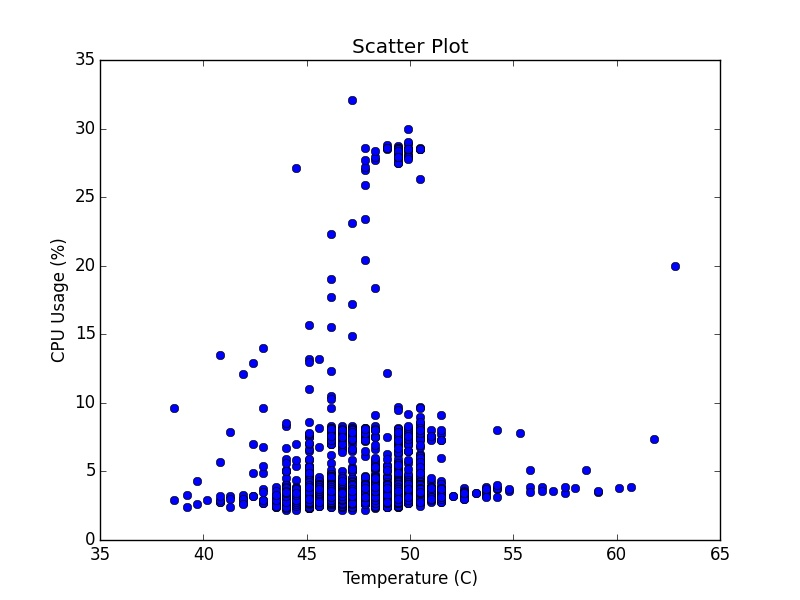
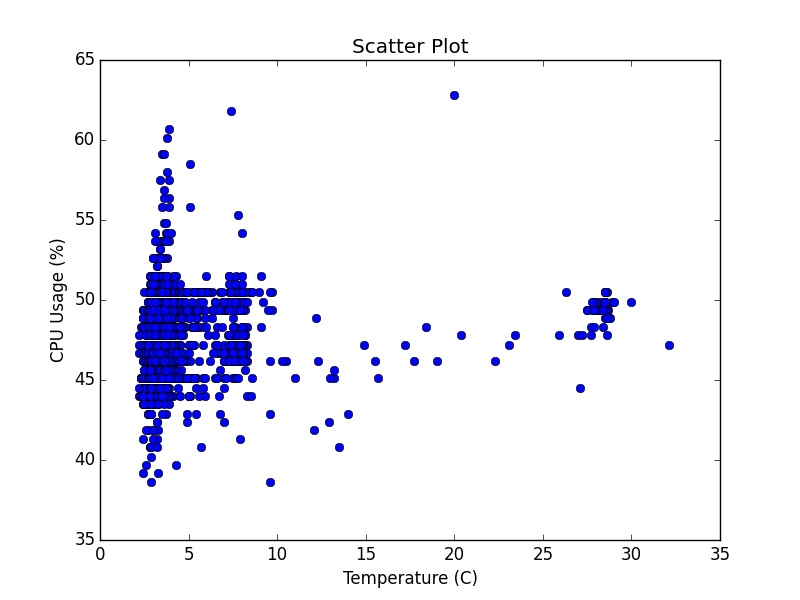
fixed the linreg again

diff --git a/ee629_final.py b/ee629_final.py
@@ -19,11 +19,11 @@ y0 = np.array(y)
 
 #Create the scatter plot:
 scatter = plt
-slope, intercept, r_value, p_value, std_err = stats.linregress(y0,x0)
+slope, intercept, r_value, p_value, std_err = stats.linregress(x0,y0)
 l = [slope*i + intercept for i in y]
 scatter.ylabel('CPU Usage (%)')
 scatter.xlabel('Temperature (C)')
 scatter.title('Scatter Plot')
-scatter.plot(y0,x0, linestyle='None', marker='o', color='b')
-scatter.plot(y0, l, 'ro')
+scatter.plot(x0,y0, linestyle='None', marker='o', color='b')
+scatter.plot(x0, l, 'ro')
 scatter.savefig('scatter.jpg')
